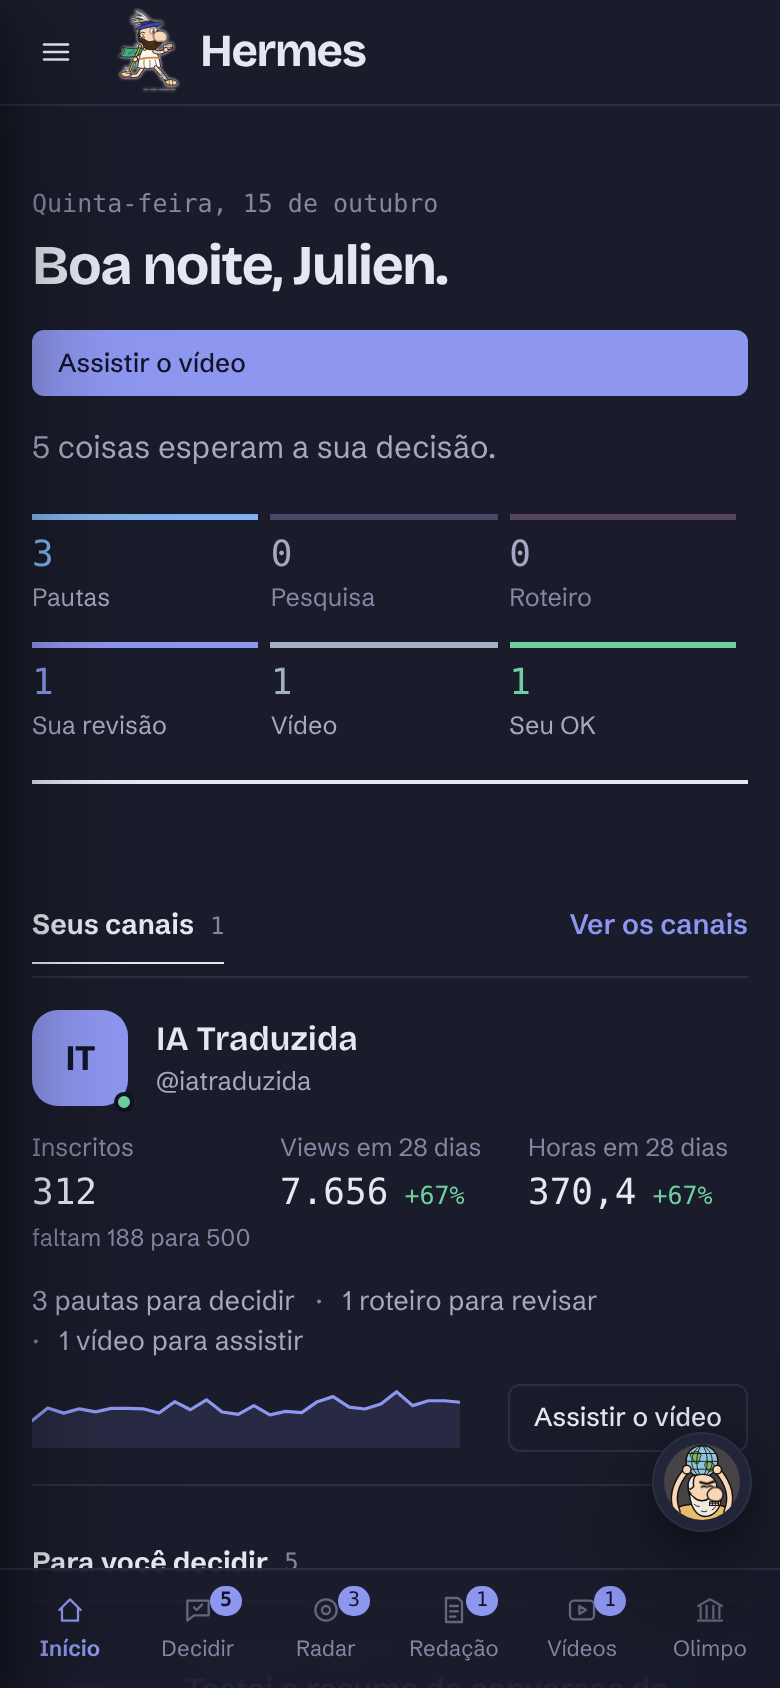
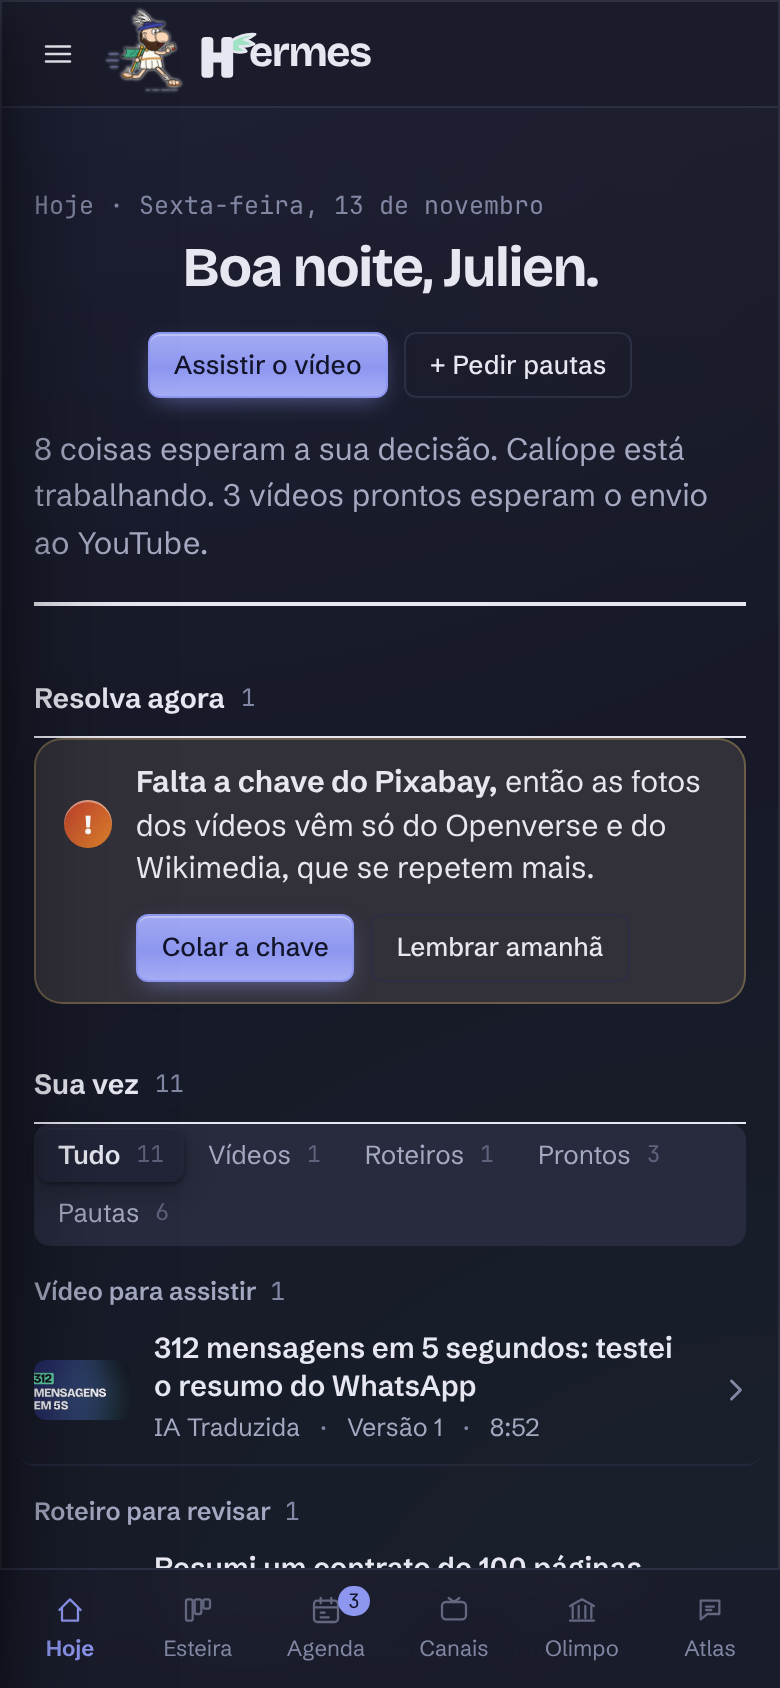
Hermes com as telas do redesenho: Hoje, Esteira e Olimpo
Fotos do estudo de caso trocadas pelas telas atuais do painel (v0.18),
tiradas dos guias do próprio repositório do Hermes. A tela Vídeos sai e
entra a Esteira. Pull requests 240+ -> 420+ (423 mergeados).

Claude-Session: https://claude.ai/code/session_011EyYauuoxvAXafA8fg73uq

diff --git a/src/content/projetos/hermes.md b/src/content/projetos/hermes.md
@@ -13,7 +13,7 @@ site: https://hermescreator.app.br/
 status: Em uso · site no ar
 desde: out/2026
 metricas:
-  - { valor: '240+', rotulo: 'pull requests' }
+  - { valor: '420+', rotulo: 'pull requests' }
   - { valor: '12', rotulo: 'agentes na equipe' }
   - { valor: '28', rotulo: 'tabelas no banco' }
   - { valor: '~1h30', rotulo: 'humanas por semana' }
@@ -39,8 +39,8 @@ fases:
   - { nome: 'Rentabilizar: receita por vídeo e pautas que rendem', status: depois }
 stack: [Python, FastAPI, Claude (Anthropic SDK), Claude Code, ffmpeg, SQLite/Turso, Backblaze B2, YouTube Data API, Google OAuth, macOS (pywebview)]
 galeria:
-  - { src: ../../assets/projects/hermes/painel-equipe.png, legenda: 'O Olimpo ao vivo: cada agente e o que está fazendo agora' }
-  - { src: ../../assets/projects/hermes/painel-videos.png, legenda: 'Vídeo esperando aprovação, com versões e Shorts' }
+  - { src: ../../assets/projects/hermes/painel-esteira.png, legenda: 'A Esteira, da pauta ao YouTube: arrastar para a coluna seguinte é aprovar' }
+  - { src: ../../assets/projects/hermes/painel-equipe.png, legenda: 'O Olimpo como linha de produção, com a mesa de quem está trabalhando agora' }
   - { src: ../../assets/projects/hermes/painel-celular.png, legenda: 'O painel também funciona no celular, como app na tela inicial' }
 ---
 
@@ -50,7 +50,7 @@ Canais "sem rosto" no YouTube exigem uma rotina pesada: achar o assunto antes do
 
 ## A abordagem
 
-O Hermes trata a produção como uma **esteira com portões humanos**. Uma equipe de doze agentes, batizados com nomes do Olimpo e coordenados pelo Atlas, faz cada etapa, e o painel concentra tudo que precisa de decisão: pautas para aprovar, roteiros para revisar, vídeos para assistir.
+O Hermes trata a produção como uma **esteira com portões humanos**. Uma equipe de doze agentes, batizados com nomes do Olimpo e coordenados pelo Atlas, faz cada etapa, e o painel abre no **Hoje**, que junta numa fila só tudo que precisa de decisão: pautas para aprovar, roteiros para revisar, vídeos para assistir.
 
 Cada canal tem marca, estilo de vídeo, voz e conta do YouTube próprios. A verificação de fontes é uma etapa à parte, feita por um agente diferente do que pesquisa.
 
